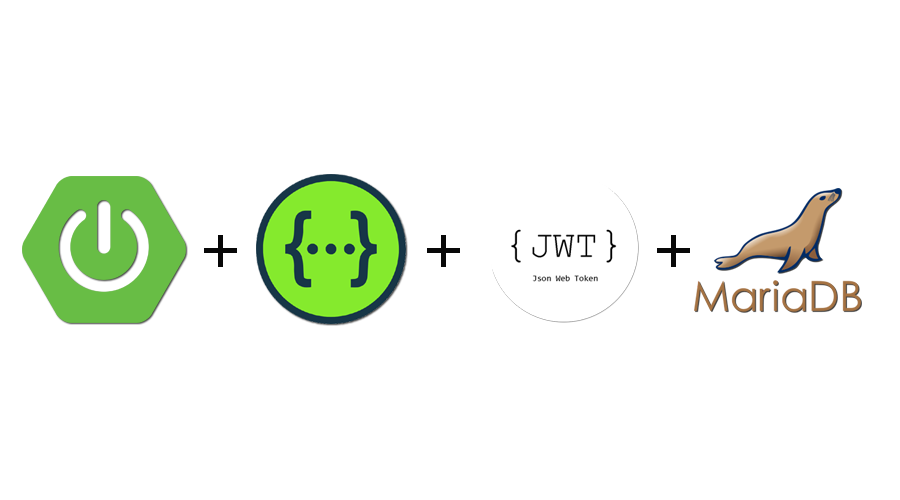
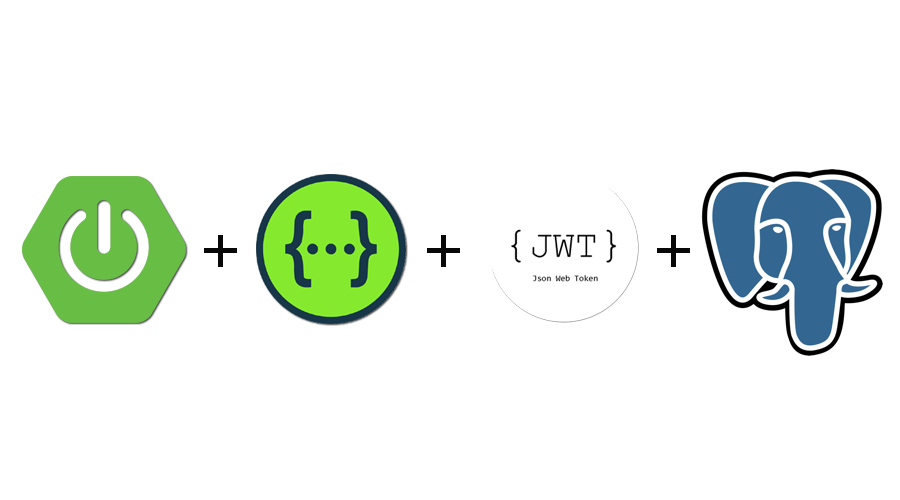
Update version and docs

Changed region(s): [[0.7467, 0.33, 0.9956, 0.72]]

diff --git a/src/main/java/com/github/throyer/common/springboot/configurations/SpringWebConfiguration.java b/src/main/java/com/github/throyer/common/springboot/configurations/SpringWebConfiguration.java
@@ -18,7 +18,7 @@ import io.swagger.v3.oas.annotations.security.SecurityScheme;
 @Configuration
 @OpenAPIDefinition(info = @Info(
     title = "Common CRUD API",
-    version = "v3.0.4",
+    version = "v4.0.0",
     description = """
         A complete user registry, with access permissions,
         JWT token, integration and unit tests, using

diff --git a/README.md b/README.md
@@ -39,7 +39,7 @@
 
 ## Requirements
 
-- MariaDB: `^10.6.1`
+- Postgres: `^13`
 - Java: `^17`
 - Maven: `^3.8.4`
 
@@ -132,7 +132,7 @@ Creating database migration files
 > ```shell
 > # to change the value of some environment variable at runtime
 > # on execution, just pass it as a parameter. (like --SERVER_PORT=80).
-> $ java -jar api-3.0.3.RELEASE.jar --SERVER_PORT=80
+> $ java -jar api-4.0.0.RELEASE.jar --SERVER_PORT=80
 > ```
 >
 > > [All options of `aplication.properties` here](https://docs.spring.io/spring-boot/docs/current/reference/html/common-application-properties.html).
